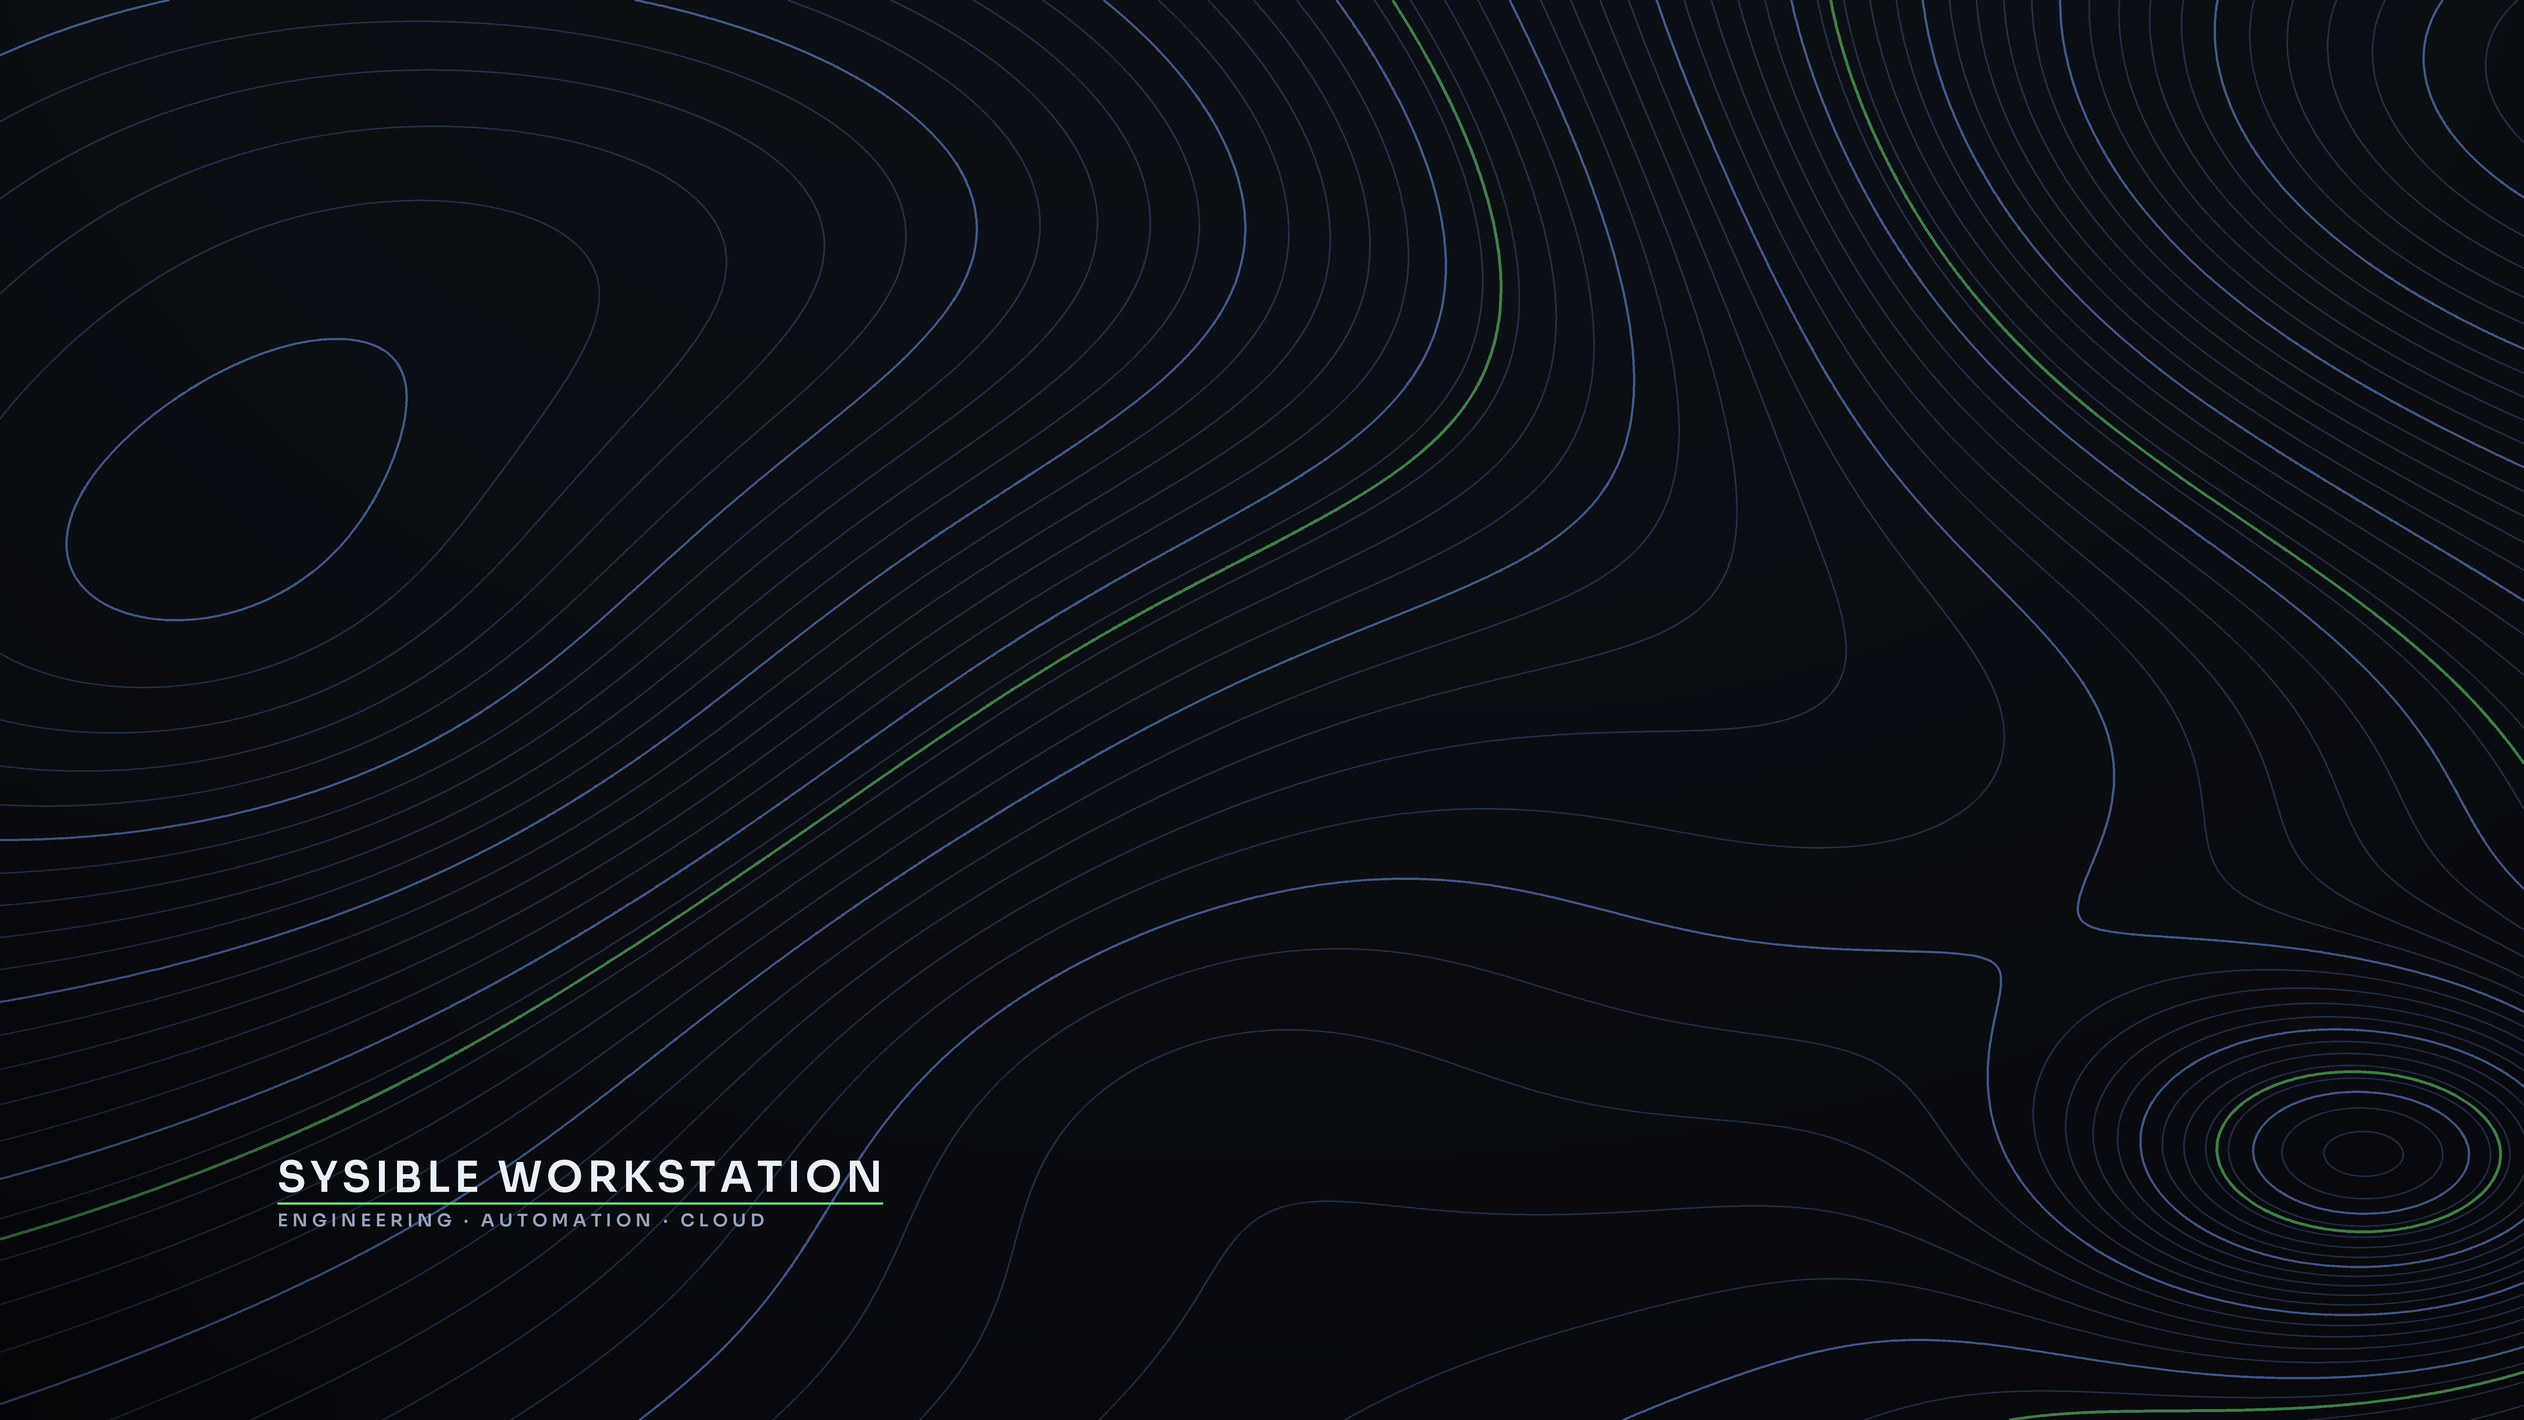
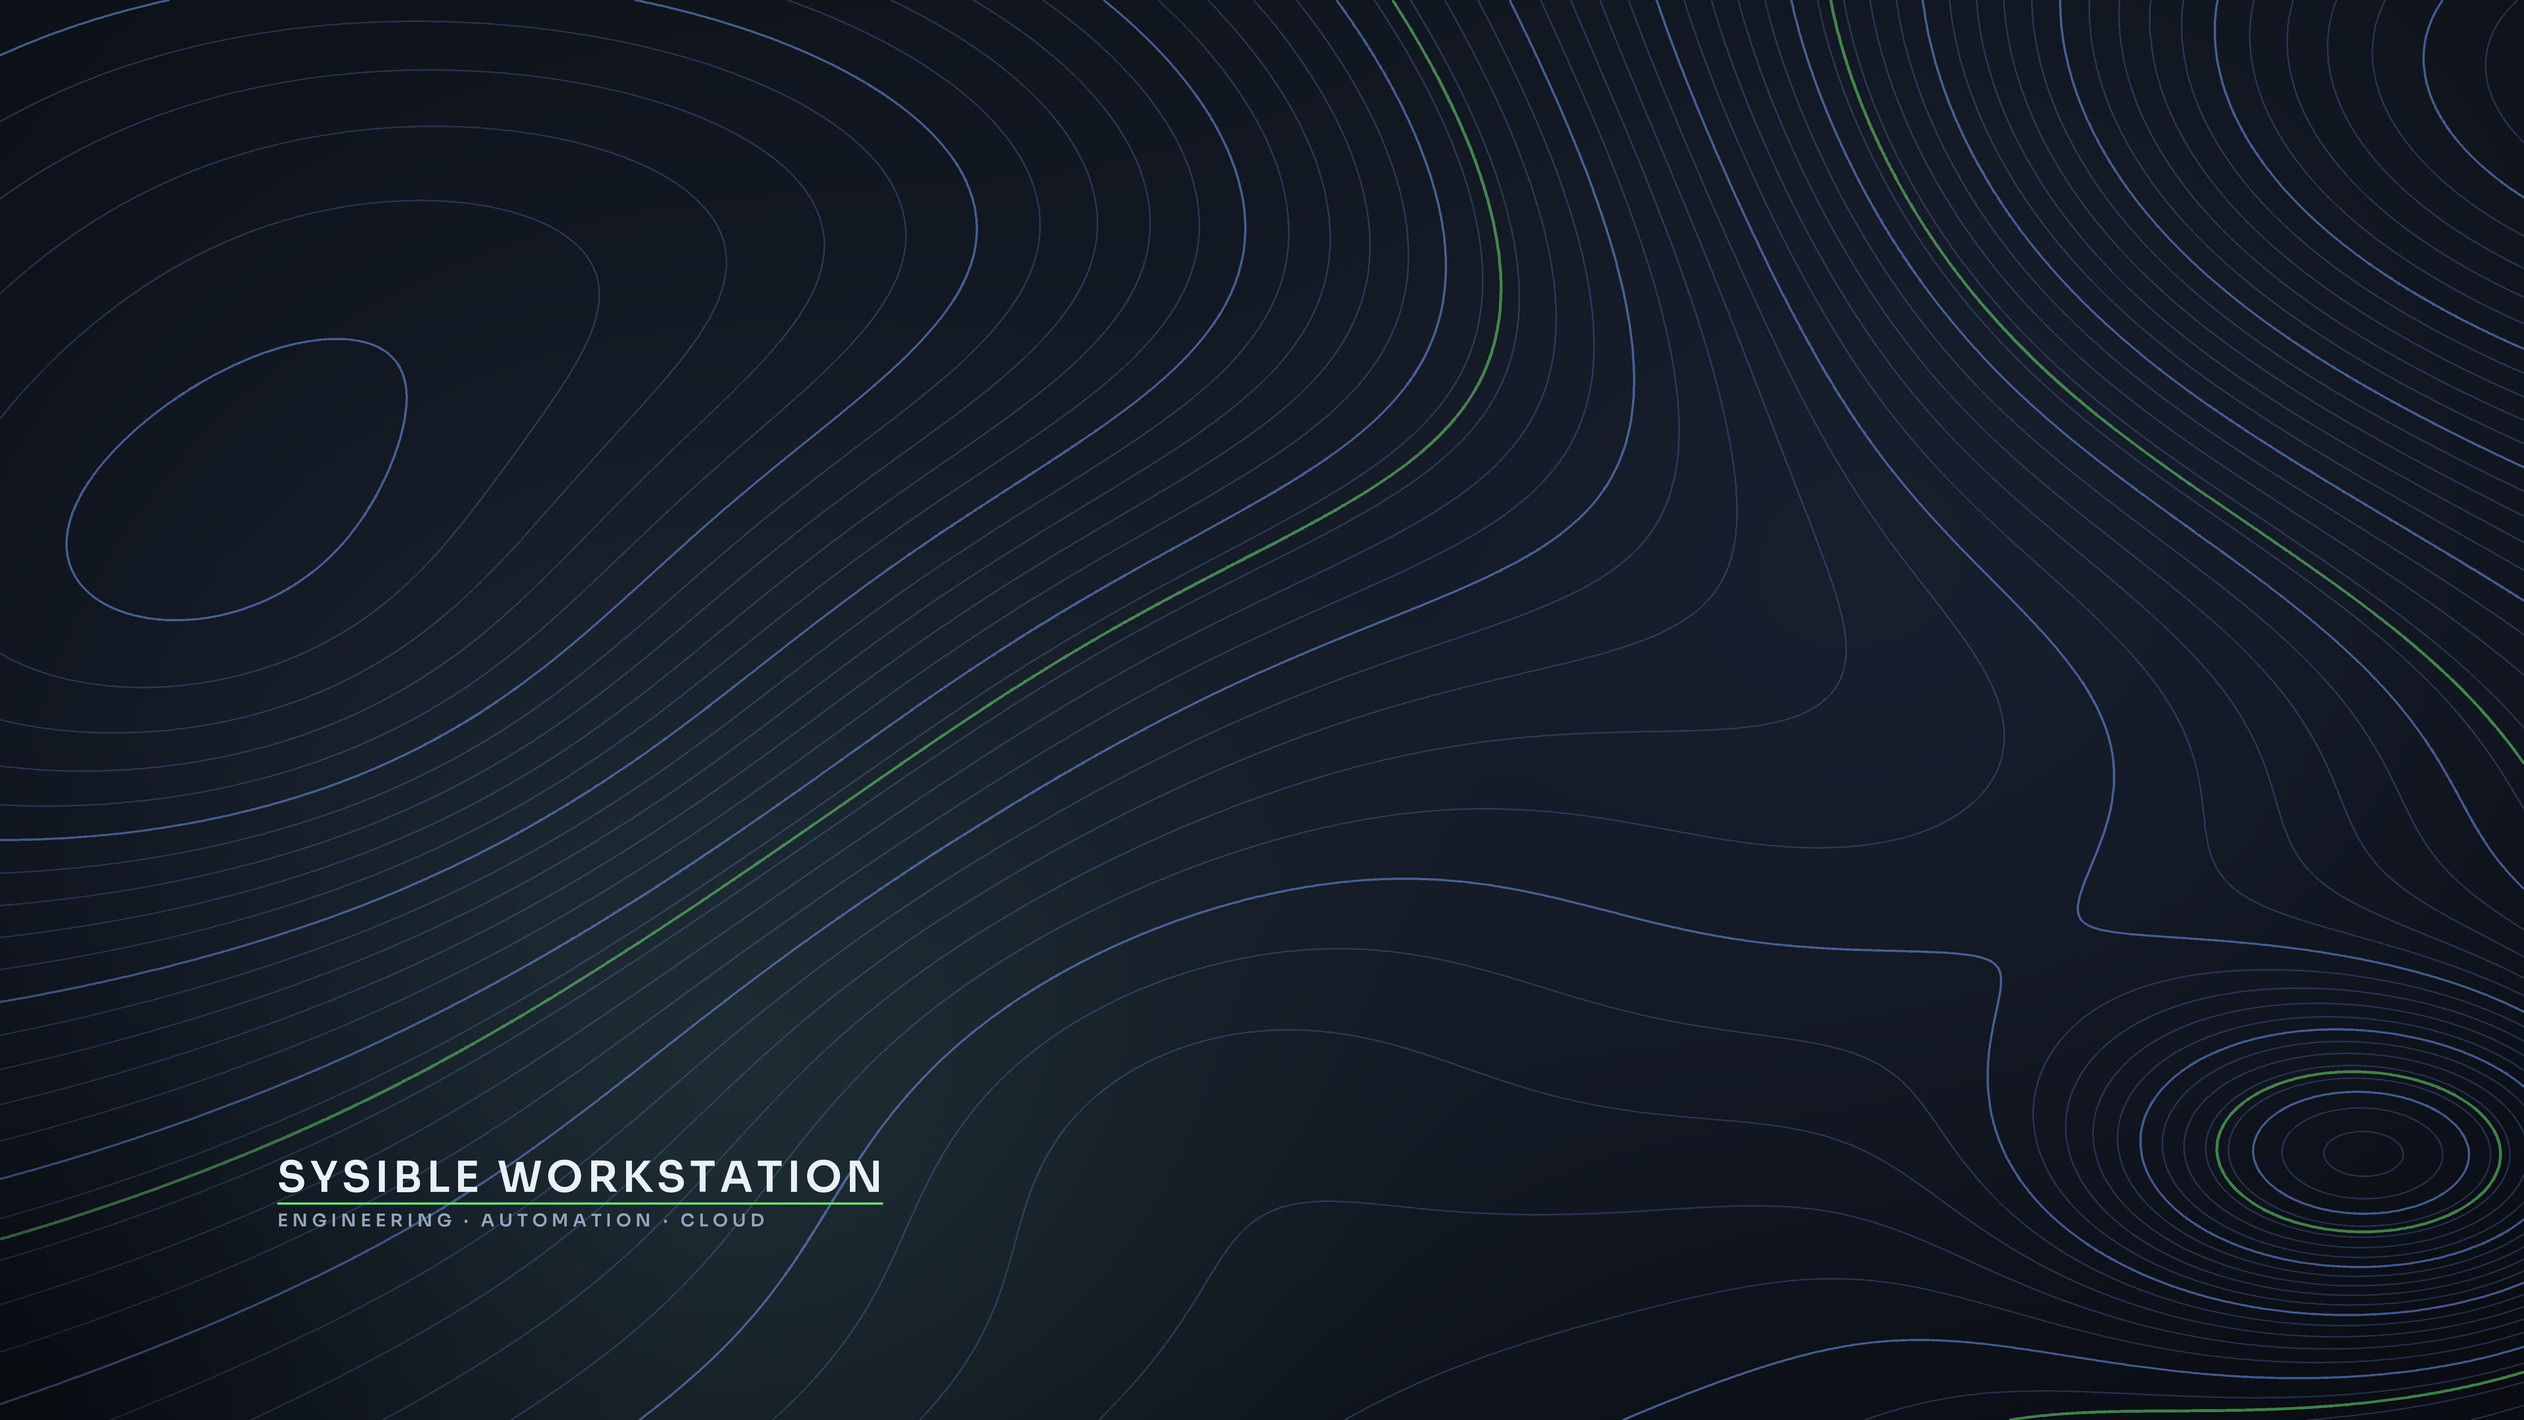
Workstation: make the idle screen look like Sysible
Asked for screensavers. There cannot be one: GNOME 43 on Wayland has no
screensaver framework, and xscreensaver cannot draw over a Wayland session —
it would work only on the machines that fall back to Xorg, which is worse
than not shipping it.

What an idle Workstation actually shows is the desktop wallpaper, blurred and
dimmed. So that is what got fixed.

The obvious lever is a trap. org.gnome.desktop.screensaver still has a
picture-uri key, and setting it looks exactly like configuring the lock
screen. GNOME Shell 43 never reads it: the unlock dialog builds its
BackgroundManager with no settingsSchema, so it falls back to
org.gnome.desktop.background (js/ui/unlockDialog.js, js/ui/background.js).
This tree already carried picture-options under that schema, doing nothing.
It is gone, replaced by a comment saying why, so the next person does not
"fix" the lock screen by adding picture-uri beside it.

The shell then blurs that wallpaper at sigma 60 and dims it to 0.55
brightness. A 60-pixel blur erases line art, and line art is what these
styles are. Simulating the real treatment on the set shipped in v1.0.3:

    topographic   mean luminance  7.5 / 255
    neural                        9.6
    roads                         8.2
    cosmos                       14.8

Three of the four were a black rectangle with a clock on it. Cosmos survived
alone, because it is built from large soft nebula forms rather than strokes.
[…]

Changed region(s): [[0.0938, 0.4062, 0.5, 1.0], [0.6562, 0.3438, 0.8438, 0.5625]]

diff --git a/tests/test_the_lock_screen_is_not_a_black_rectangle.py b/tests/test_the_lock_screen_is_not_a_black_rectangle.py
@@ -1,0 +1,139 @@
+"""What the machine shows while it sits idle and locked.
+
+There is no screensaver on this image and there cannot be one: GNOME 43 on
+Wayland has no screensaver framework, and xscreensaver cannot draw over a
+Wayland session. What an idle Workstation actually shows is the DESKTOP
+WALLPAPER, blurred and dimmed by the shell.
+
+The trap is that org.gnome.desktop.screensaver still has a picture-uri key.
+Setting it looks exactly like configuring the lock screen and does nothing:
+gnome-shell 43's unlock dialog builds its BackgroundManager with no
+settingsSchema, so it reads org.gnome.desktop.background (js/ui/unlockDialog.js,
+js/ui/background.js). The shell then applies BlurEffect sigma 60 at brightness
+0.55.
+
+A 60-pixel blur erases line art, and line art is what these wallpapers are.
+Measured on the set as shipped in v1.0.3, three of the four dark styles came
+out of that treatment at a mean luminance of 8-10 out of 255 — a black
+rectangle with a clock on it, on a machine whose desktop is anything but.
+
+So these tests apply the shell's real treatment to the real shipped files and
+assert the result is still Sysible:
+
+  * it must not be black;
+  * it must still carry brand colour, not just grey;
+  * and it must stay dark enough BEHIND THE CLOCK that white text reads.
+
+Run: pytest tests/test_the_lock_screen_is_not_a_black_rectangle.py
+"""
+import pathlib
+
+import pytest
+
+np = pytest.importorskip("numpy")
+PIL = pytest.importorskip("PIL")
+from PIL import Image, ImageEnhance, ImageFilter  # noqa: E402
+
+REPO = pathlib.Path(__file__).resolve().parents[1]
+ART = REPO / "packages/sysible-artwork/backgrounds"
+
+# gnome-shell 43, js/ui/unlockDialog.js
+BLUR_SIGMA = 60
+BLUR_BRIGHTNESS = 0.55
+SCREEN = (1920, 1080)
+
+# Every DARK style. The light ones are not checked for lift: they start bright,
+# and adding glow there would cost the clock its contrast instead of buying it.
+DARK = ["sysible-topographic", "sysible-topographic-ridge",
+        "sysible-neural", "sysible-cosmos", "sysible-roads"]
+
+
+def _lock(name):
+    """The wallpaper as the lock screen really renders it."""
+    im = Image.open(ART / f"{name}.jpg").convert("RGB")
+    # picture-options='zoom' — cover-fit, crop, never distort.
+    sw, sh = SCREEN
+    r = max(sw / im.width, sh / im.height)
+    im = im.resize((round(im.width * r), round(im.height * r)), Image.LANCZOS)
+    l, t = (im.width - sw) // 2, (im.height - sh) // 2
+    im = im.crop((l, t, l + sw, t + sh))
+    im = im.filter(ImageFilter.GaussianBlur(BLUR_SIGMA))
+    return ImageEnhance.Brightness(im).enhance(BLUR_BRIGHTNESS)
+
+
+def _luma(im):
+    return np.asarray(im.convert("L"), dtype=np.float32)
+
+
+@pytest.mark.parametrize("name", DARK)
+def test_it_is_not_a_black_rectangle(name):
+    """The floor. Below about 12 the screen reads as off, not as locked."""
+    mean = _luma(_lock(name)).mean()
+    assert mean >= 12.0, (
+        f"{name} renders at mean luminance {mean:.1f}/255 once the shell blurs "
+        f"and dims it — that is a black screen with a clock on it. Fine "
+        f"linework does not survive a 60px blur; the art needs wide, "
+        f"low-amplitude form under it (see add_lock_blooms)")
+
+
+@pytest.mark.parametrize("name", DARK)
+def test_brand_colour_survives_the_blur(name):
+    """Grey is not the brand. Something green or blue has to come through, or
+    the lock screen is just a dark smudge that could belong to any distro."""
+    a = np.asarray(_lock(name), dtype=np.float32)
+    # Where the image is brightest, is it tinted?
+    luma = a @ np.array([0.299, 0.587, 0.114], dtype=np.float32)
+    hot = luma >= np.percentile(luma, 92)
+    r, g, b = (a[:, :, i][hot].mean() for i in range(3))
+    assert max(g, b) - r >= 2.0, (
+        f"{name}: the brightest part of the locked screen is neutral "
+        f"(r={r:.1f} g={g:.1f} b={b:.1f}) — no brand colour survived")
+
+
+@pytest.mark.parametrize("name", DARK)
+def test_white_text_still_reads_over_the_clock(name):
+    """GNOME puts the time and date in white in the upper centre. Buying a
+    prettier lock screen by brightening the one region the text sits in would
+    be a straight loss."""
+    a = _luma(_lock(name))
+    # the clock band, in the 1920x1080 frame
+    behind = a[110:350, 680:1240]
+    assert behind.mean() <= 60.0, (
+        f"{name}: mean luminance behind the clock is {behind.mean():.1f}/255 — "
+        f"too bright for white text to stay comfortable")
+    assert behind.max() <= 110.0, (
+        f"{name}: a hotspot of {behind.max():.0f}/255 sits behind the clock")
+
+
+def test_no_dead_screensaver_image_config():
+    """A picture-uri under org.gnome.desktop.screensaver is the trap this whole
+    file exists to document: it reads as configuring the lock screen and does
+    nothing in GNOME 43."""
+    for db in (REPO / "live-build/config/includes.chroot/etc/dconf/db").rglob("*"):
+        if not db.is_file():
+            continue
+        text = db.read_text(encoding="utf-8", errors="replace")
+        if "[org/gnome/desktop/screensaver]" not in text:
+            continue
+        block = text.split("[org/gnome/desktop/screensaver]", 1)[1].split("\n[", 1)[0]
+        live = [ln for ln in block.splitlines()
+                if ln.strip() and not ln.lstrip().startswith("#")]
+        bad = [ln for ln in live if ln.split("=")[0].strip()
+               in ("picture-uri", "picture-uri-dark", "picture-options")]
+        assert not bad, (
+            f"{db}: {bad} under org.gnome.desktop.screensaver does nothing in "
+            f"GNOME 43 — the lock screen reads org.gnome.desktop.background")
+
+
+def test_the_wallpaper_the_desktop_defaults_to_is_one_of_the_checked_ones():
+    """These tests only prove the art they look at. If the default wallpaper
+    were some file outside that set, the lock screen could still be black."""
+    cfg = (REPO / "live-build/config/includes.chroot/etc/dconf/db/local.d"
+                  "/00-sysible-desktop").read_text(encoding="utf-8")
+    block = cfg.split("[org/gnome/desktop/background]", 1)[1].split("\n[", 1)[0]
+    dark = [ln for ln in block.splitlines() if ln.startswith("picture-uri-dark=")]
+    assert dark, "no dark wallpaper default"
+    stem = dark[0].rsplit("/", 1)[-1].rstrip("'").removesuffix(".jpg")
+    assert stem in DARK, (
+        f"the default dark wallpaper is {stem!r}, which no lock-screen test "
+        f"covers — add it to DARK or the lock screen is unverified")

diff --git a/branding/wallpapers/render_wallpapers.py b/branding/wallpapers/render_wallpapers.py
@@ -116,6 +116,57 @@ def add_radial_bloom(arr, cx, cy, radius, color, strength, mode="add"):
     return arr
 
 
+def add_lock_blooms(arr, pal):
+    """Large, soft brand-coloured glows that survive GNOME's lock-screen blur.
+
+    THE LOCK SCREEN IS THIS WALLPAPER, blurred and dimmed. GNOME Shell 43 does
+    not read org.gnome.desktop.screensaver for its image at all — the unlock
+    dialog builds a BackgroundManager with no settingsSchema, which defaults to
+    org.gnome.desktop.background — and then puts a BlurEffect of sigma 60 over
+    it at brightness 0.55 (gnome-shell 43, js/ui/unlockDialog.js).
+
+    A 60-pixel blur erases line art. Measured on the shipped set: topographic,
+    neural and roads all fell to a mean luminance of 9-11 out of 255 — a black
+    screen with a clock on it, on a machine whose desktop is anything but.
+    Cosmos survived alone, because its composition is large soft forms rather
+    than fine strokes.
+
+    So every style now carries the thing that survives: a few wide, low-
+    amplitude blooms under the art. At full resolution they read as depth
+    behind the linework. At sigma 60 they ARE the composition.
+
+    Placed to leave the upper-centre dark, because that is where GNOME puts the
+    clock and the date in white — brightening behind them would cost legibility
+    to buy prettiness.
+    """
+    if pal["light"]:
+        # On light art the same trick runs the other way: the blur has plenty
+        # of luminance to keep, and adding more would wash the clock out.
+        return arr
+    g = np.array(pal["art_green"], dtype=np.float32)
+    b = np.array(pal["art_blue"], dtype=np.float32)
+    # (cx, cy, radius, colour, strength) — radius is in half-height units, so
+    # these are all far wider than the blur kernel and survive it intact.
+    # strength is a 0..1 fraction OF THE COLOUR, the same units cosmos uses —
+    # not a 0..255 level. Scaling by 255 here blew the first render to white.
+    #
+    # WIDE AND WEAK, not tight and strong. A blur keeps a bloom's mean
+    # luminance whatever its radius, so spreading the same energy over a much
+    # larger area buys the lock screen the same lift while the desktop reads it
+    # as atmosphere rather than as a coloured blob. The first attempt used
+    # r~0.6 at 0.20 and put a green haze over the linework.
+    #
+    # Weighted to blue: at equal luminance green is the more conspicuous of the
+    # two brand colours, so blue carries the field and green is an accent.
+    for cx, cy, r, c, st in (
+        (0.20, 0.72, 0.95, b, 0.105),   # lower left, blue field
+        (0.80, 0.42, 0.85, b, 0.095),   # right, blue field
+        (0.30, 0.80, 0.55, g, 0.070),   # bottom left, green accent
+    ):
+        arr = add_radial_bloom(arr, cx, cy, r, c, st)
+    return arr
+
+
 def to_rgba(arr):
     return Image.fromarray(np.clip(arr, 0, 255).astype(np.uint8), "RGB").convert("RGBA")
 
@@ -352,6 +403,7 @@ def _web_contour_overlay(W, H, pal, levels=_WEB_LEVELS, accents=(8, 15)):
 def render_topographic(W, H, pal):
     """The site's hero terrain: faint blue contours, every fifth stronger, two in green."""
     arr = base_gradient(W, H, pal)
+    arr = add_lock_blooms(arr, pal)
     arr = apply_vignette(arr, pal)
     img = to_rgba(arr)
     img = Image.alpha_composite(img, _web_contour_overlay(W, H, pal))
@@ -362,6 +414,7 @@ def render_topographic_ridge(W, H, pal):
     """The same terrain read finer — twice the contour interval, so the slopes
     crowd into ridges. More texture for anyone who wants a busier desktop."""
     arr = base_gradient(W, H, pal)
+    arr = add_lock_blooms(arr, pal)
     arr = apply_vignette(arr, pal)
     img = to_rgba(arr)
     img = Image.alpha_composite(
@@ -373,6 +426,7 @@ def render_neural(W, H, pal):
     arr = base_gradient(W, H, pal)
     # faint central bloom for depth
     add_radial_bloom(arr, 0.5, 0.45, 0.6, pal["art_blue"], 0.05 if pal["light"] else 0.10)
+    arr = add_lock_blooms(arr, pal)
     arr = apply_vignette(arr, pal)
     img = to_rgba(arr)
 
@@ -471,6 +525,7 @@ def render_cosmos(W, H, pal):
 # A soft county-boundary polygon frames the extent instead of a tight 5mi circle.
 def render_roads(W, H, pal):
     arr = base_gradient(W, H, pal)
+    arr = add_lock_blooms(arr, pal)
     img = to_rgba(arr)
 
     layer = Image.new("RGBA", (W, H), (0, 0, 0, 0))
